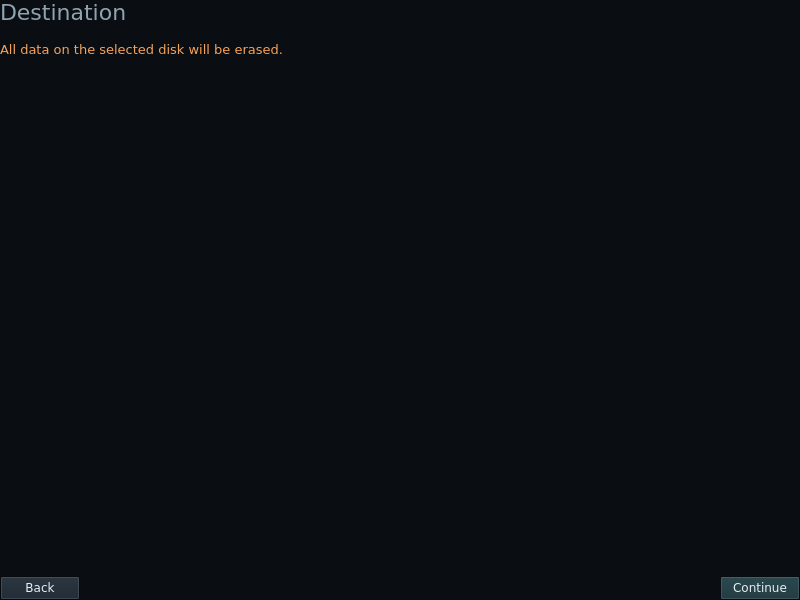
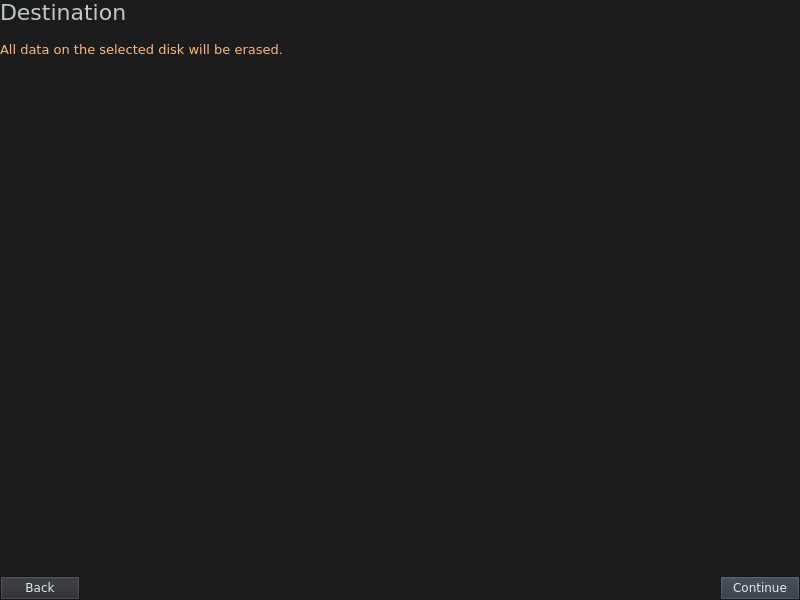
style(ui): use DankMaterialShell's theme tokens rather than a bespoke palette
The README says this installer is modelled on DankMaterialShell and it runs
inside a DMS/niri session, so it should look like it belongs there. My first
pass invented a dark palette, which was the wrong instinct.

ui/Theme.qml now mirrors DMS's own tokens — names, spacing scale, corner
radii, font sizes and stock dark colours, taken from
quickshell/Common/Theme.qml and PLUGINS/THEME_REFERENCE.md. Every colour in
installer.qml goes through it, so pointing this at a live DMS session later
is a one-file change rather than a sweep.

DMS derives real colours from the wallpaper via matugen at runtime; the
values here are its stock dark fallbacks, which is the right baseline for an
installer that runs before any of that exists.

One QML trap worth recording: the token names in DMS's THEME_REFERENCE.md
(Theme.onSurface, Theme.onPrimary) cannot be used as property names.
`on<Capital>` is signal-handler syntax, so `onPrimary` parses as a handler
for changes to `primary` and the file fails to load with "Cannot assign a
value to a signal". DMS's actual property names are the *Text spellings
(surfaceText, surfaceVariantText, primaryText) for exactly this reason, and
this follows them.

Re-rendered and inspected: all 6 screens on DMS surfaces.

Claude-Session: https://claude.ai/code/session_01KNgsizQRcVzS3KiJ5BduiC

diff --git a/ui/installer.qml b/ui/installer.qml
@@ -12,6 +12,7 @@ import QtQuick.Controls
 import QtQuick.Layouts
 import Quickshell
 import Quickshell.Io
+import "."
 
 ApplicationWindow {
     id: root
@@ -19,25 +20,25 @@ ApplicationWindow {
     width: 800
     height: 600
     visible: true
-    color: "#0A0E12" // --void (DESIGN.md)
+    color: Theme.surface
 
-    // Every Text in this file is coloured from the DESIGN.md palette, but the
-    // CONTROLS were left at Qt Quick Controls' defaults — which are light. The
-    // result was light-grey buttons and a near-white log pane on a #0A0E12
-    // background: the install-progress screen came out 93% white. Setting the
-    // palette once here fixes every control rather than restyling each one.
-    palette.window: "#0A0E12"      // --void
-    palette.windowText: "#E6EDF3"
-    palette.base: "#111A22"        // input / log background
-    palette.alternateBase: "#18222C"
-    palette.text: "#E6EDF3"
-    palette.button: "#18222C"
-    palette.buttonText: "#E6EDF3"
-    palette.highlight: "#2EC4B6"   // --sonar
-    palette.highlightedText: "#0A0E12"
-    palette.placeholderText: "#5A6B78"
-    palette.mid: "#2A3742"
-    palette.dark: "#0A0E12"
+    // Every Text here was coloured from a bespoke palette while the CONTROLS
+    // kept Qt Quick Controls' light defaults — the install-progress log pane
+    // rendered 93% white on a near-black background. Setting the palette once
+    // from the DMS tokens fixes every control at once, and keeps the installer
+    // looking like the shell it runs inside.
+    palette.window: Theme.surface
+    palette.windowText: Theme.surfaceText
+    palette.base: Theme.surfaceContainerLow
+    palette.alternateBase: Theme.surfaceContainer
+    palette.text: Theme.surfaceText
+    palette.button: Theme.surfaceContainerHigh
+    palette.buttonText: Theme.surfaceText
+    palette.highlight: Theme.primary
+    palette.highlightedText: Theme.primaryText
+    palette.placeholderText: Theme.outline
+    palette.mid: Theme.surfaceVariant
+    palette.dark: Theme.surfaceContainerLowest
 
     property string backendBin: Quickshell.env("TUNA_BACKEND") || "tuna-installer-backend"
 
@@ -134,7 +135,7 @@ ApplicationWindow {
                     text: "TunaOS Installer"
                     font.pixelSize: 28
                     font.weight: Font.Light
-                    color: "#2EC4B6" // --sonar
+                    color: Theme.primary // --sonar
                     Layout.alignment: Qt.AlignHCenter
                 }
                 Text {
@@ -142,7 +143,7 @@ ApplicationWindow {
                         ? "Install this system — no download required."
                         : "This wizard will guide you through installing TunaOS onto your computer."
                     font.pixelSize: 14
-                    color: "#8FA3B0" // --fog
+                    color: Theme.surfaceVariantText // --fog
                     wrapMode: Text.WordWrap
                     Layout.maximumWidth: 420
                     Layout.alignment: Qt.AlignHCenter
@@ -168,14 +169,14 @@ ApplicationWindow {
                 text: "Destination"
                 font.pixelSize: 22
                 font.weight: Font.Light
-                color: "#8FA3B0"
+                color: Theme.surfaceVariantText
             }
             Text {
                 text: root.selectedDisk.name !== undefined
                     ? "erases everything on " + root.selectedDisk.name
                     : "All data on the selected disk will be erased."
                 font.pixelSize: 13
-                color: "#F4A259" // --catch
+                color: Theme.warning // --catch
             }
 
             ListView {
@@ -219,13 +220,13 @@ ApplicationWindow {
 
             Text {
                 text: "Disk Encryption"
-                font.pixelSize: 28; font.bold: true; color: "white"
+                font.pixelSize: 28; font.bold: true; color: Theme.surfaceText
             }
             Text {
                 text: "Encryption protects your files if the disk is lost or stolen. It cannot be turned on later without reinstalling."
                 wrapMode: Text.WordWrap
                 Layout.fillWidth: true
-                color: "#8FA3B0"
+                color: Theme.surfaceVariantText
             }
 
             ButtonGroup { id: encGroup }
@@ -249,7 +250,7 @@ ApplicationWindow {
                     }
                     Text {
                         text: modelData.explain
-                        color: "#5A6B78"; leftPadding: 32
+                        color: Theme.outline; leftPadding: 32
                     }
                 }
             }
@@ -274,7 +275,7 @@ ApplicationWindow {
                 }
                 Text {
                     id: passError
-                    color: "#C0392B"
+                    color: Theme.error
                     visible: text !== ""
                 }
             }
@@ -317,33 +318,33 @@ ApplicationWindow {
                 text: "Confirm Installation"
                 font.pixelSize: 22
                 font.weight: Font.Light
-                color: "#8FA3B0"
+                color: Theme.surfaceVariantText
             }
             GridLayout {
                 columns: 2
                 columnSpacing: 24
                 rowSpacing: 8
-                Text { text: "Target Disk:"; font.bold: true; color: "#8FA3B0" }
+                Text { text: "Target Disk:"; font.bold: true; color: Theme.surfaceVariantText }
                 Text {
                     text: root.selectedDisk.name ? "/dev/" + root.selectedDisk.name : "—"
-                    font.family: "monospace"; color: "white"
+                    font.family: "monospace"; color: Theme.surfaceText
                 }
-                Text { text: "Filesystem:"; font.bold: true; color: "#8FA3B0" }
-                Text { text: "xfs"; font.family: "monospace"; color: "white" }
-                Text { text: "Encryption:"; font.bold: true; color: "#8FA3B0" }
-                Text { text: root.encType; font.family: "monospace"; color: "white" }
-                Text { text: "Hostname:"; font.bold: true; color: "#8FA3B0" }
+                Text { text: "Filesystem:"; font.bold: true; color: Theme.surfaceVariantText }
+                Text { text: "xfs"; font.family: "monospace"; color: Theme.surfaceText }
+                Text { text: "Encryption:"; font.bold: true; color: Theme.surfaceVariantText }
+                Text { text: root.encType; font.family: "monospace"; color: Theme.surfaceText }
+                Text { text: "Hostname:"; font.bold: true; color: Theme.surfaceVariantText }
                 TextField {
                     text: root.hostname
                     onTextChanged: root.hostname = text
                     font.family: "monospace"
                 }
-                Text { text: "Image:"; font.bold: true; color: "#8FA3B0" }
+                Text { text: "Image:"; font.bold: true; color: Theme.surfaceVariantText }
                 Text {
                     text: root.liveImage !== ""
                         ? root.liveImage + "  (this system, no download)"
                         : root.defaultImage
-                    color: "#8FA3B0"; font.pixelSize: 12; font.family: "monospace"
+                    color: Theme.surfaceVariantText; font.pixelSize: 12; font.family: "monospace"
                 }
             }
 
@@ -370,7 +371,7 @@ ApplicationWindow {
                 text: "Installing…"
                 font.pixelSize: 22
                 font.weight: Font.Light
-                color: "#8FA3B0"
+                color: Theme.surfaceVariantText
             }
 
             ScrollView {
@@ -396,7 +397,7 @@ ApplicationWindow {
                     text: root.installSuccess ? "✓ Installation Complete" : "✗ Installation Failed"
                     font.pixelSize: 28
                     font.weight: Font.Light
-                    color: root.installSuccess ? "#2EC4B6" : "#F4A259"
+                    color: root.installSuccess ? Theme.primary : Theme.warning
                     Layout.alignment: Qt.AlignHCenter
                 }
                 Text {
@@ -404,7 +405,7 @@ ApplicationWindow {
                         ? "Remove the installation media and restart your computer."
                         : "Check the installation log above for details."
                     font.pixelSize: 14
-                    color: "#8FA3B0"
+                    color: Theme.surfaceVariantText
                     Layout.alignment: Qt.AlignHCenter
                 }
                 Button {

diff --git a/ui/Theme.qml b/ui/Theme.qml
@@ -1,0 +1,67 @@
+pragma Singleton
+import QtQuick
+
+// DankMaterialShell's theme tokens, mirrored.
+//
+// This installer is modelled on DMS (see README) and runs inside a DMS/niri
+// session, so it should look like it belongs there rather than inventing its
+// own palette. Names, scale and stock values are taken from DMS's
+// quickshell/Common/Theme.qml and PLUGINS/THEME_REFERENCE.md, so anything
+// written against DMS's docs reads the same here.
+//
+// DMS derives its real colours from the user's wallpaper via matugen at
+// runtime; the values below are its STOCK dark fallbacks, which is the right
+// baseline for an installer that runs before any of that is configured. If
+// this ever needs to follow a live DMS session, this is the single file to
+// point at DMS's exported colours — every call site already goes through it.
+QtObject {
+    // ── Surfaces ────────────────────────────────────────────────────────────
+    property color surface: "#1a1c1e"
+    property color surfaceContainerLowest: "#0e1013"
+    property color surfaceContainerLow: "#181a1d"
+    property color surfaceContainer: "#1e2023"
+    property color surfaceContainerHigh: "#292b2f"
+    property color surfaceContainerHighest: "#343740"
+    property color surfaceVariant: "#44464f"
+
+    // ── Content ─────────────────────────────────────────────────────────────
+    // NAMING follows DMS's own property names, not the shorthand in its
+    // THEME_REFERENCE.md. "onSurface"/"onPrimary" cannot be QML property names
+    // here: `on<Capital>` is signal-handler syntax, so `onPrimary` parses as a
+    // handler for changes to `primary` and the file fails to load with "Cannot
+    // assign a value to a signal". DMS uses the *Text spellings for exactly
+    // this reason.
+    property color surfaceText: "#e3e8ef"
+    property color surfaceVariantText: "#c4c7c5"
+    property color outline: "#8e918f"
+
+    // ── Semantic ────────────────────────────────────────────────────────────
+    property color primary: "#42a5f5"
+    property color primaryText: "#ffffff"
+    property color primaryContainer: "#1976d2"
+    property color error: "#F2B8B5"
+    property color warning: "#FFB77C"
+    property color success: "#A6E3A1"
+
+    // ── Metrics ─────────────────────────────────────────────────────────────
+    readonly property real spacingXXS: 2
+    readonly property real spacingXS: 4
+    readonly property real spacingS: 8
+    readonly property real spacingM: 12
+    readonly property real spacingL: 16
+    readonly property real spacingXL: 24
+
+    readonly property real cornerRadius: 12
+    readonly property real cornerRadiusSmall: 8
+    readonly property real cornerRadiusLarge: 16
+
+    readonly property real fontSizeSmall: 12
+    readonly property real fontSizeMedium: 14
+    readonly property real fontSizeLarge: 16
+    readonly property real fontSizeXLarge: 20
+
+    // DMS uses OutCubic at ~200ms for standard transitions.
+    readonly property int shortDuration: 150
+    readonly property int mediumDuration: 200
+    readonly property int standardEasing: Easing.OutCubic
+}
